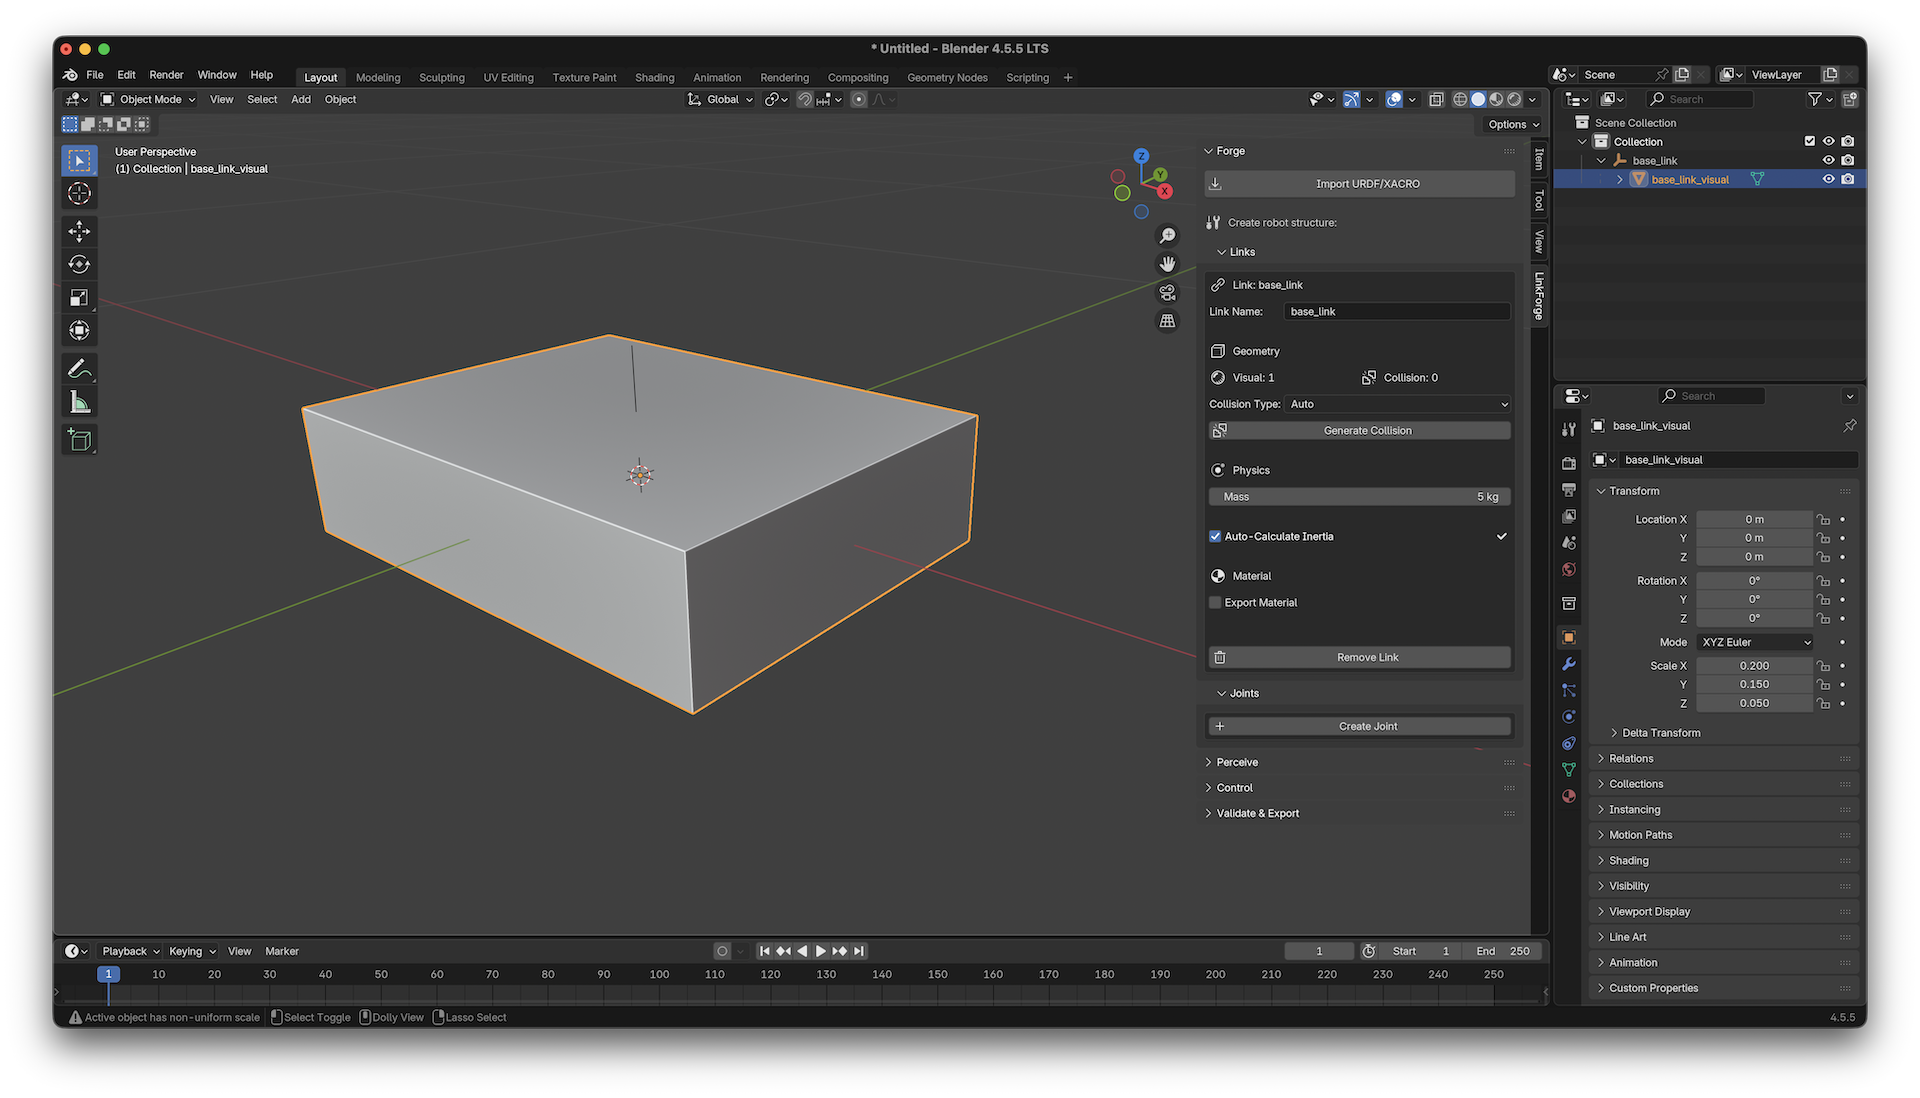
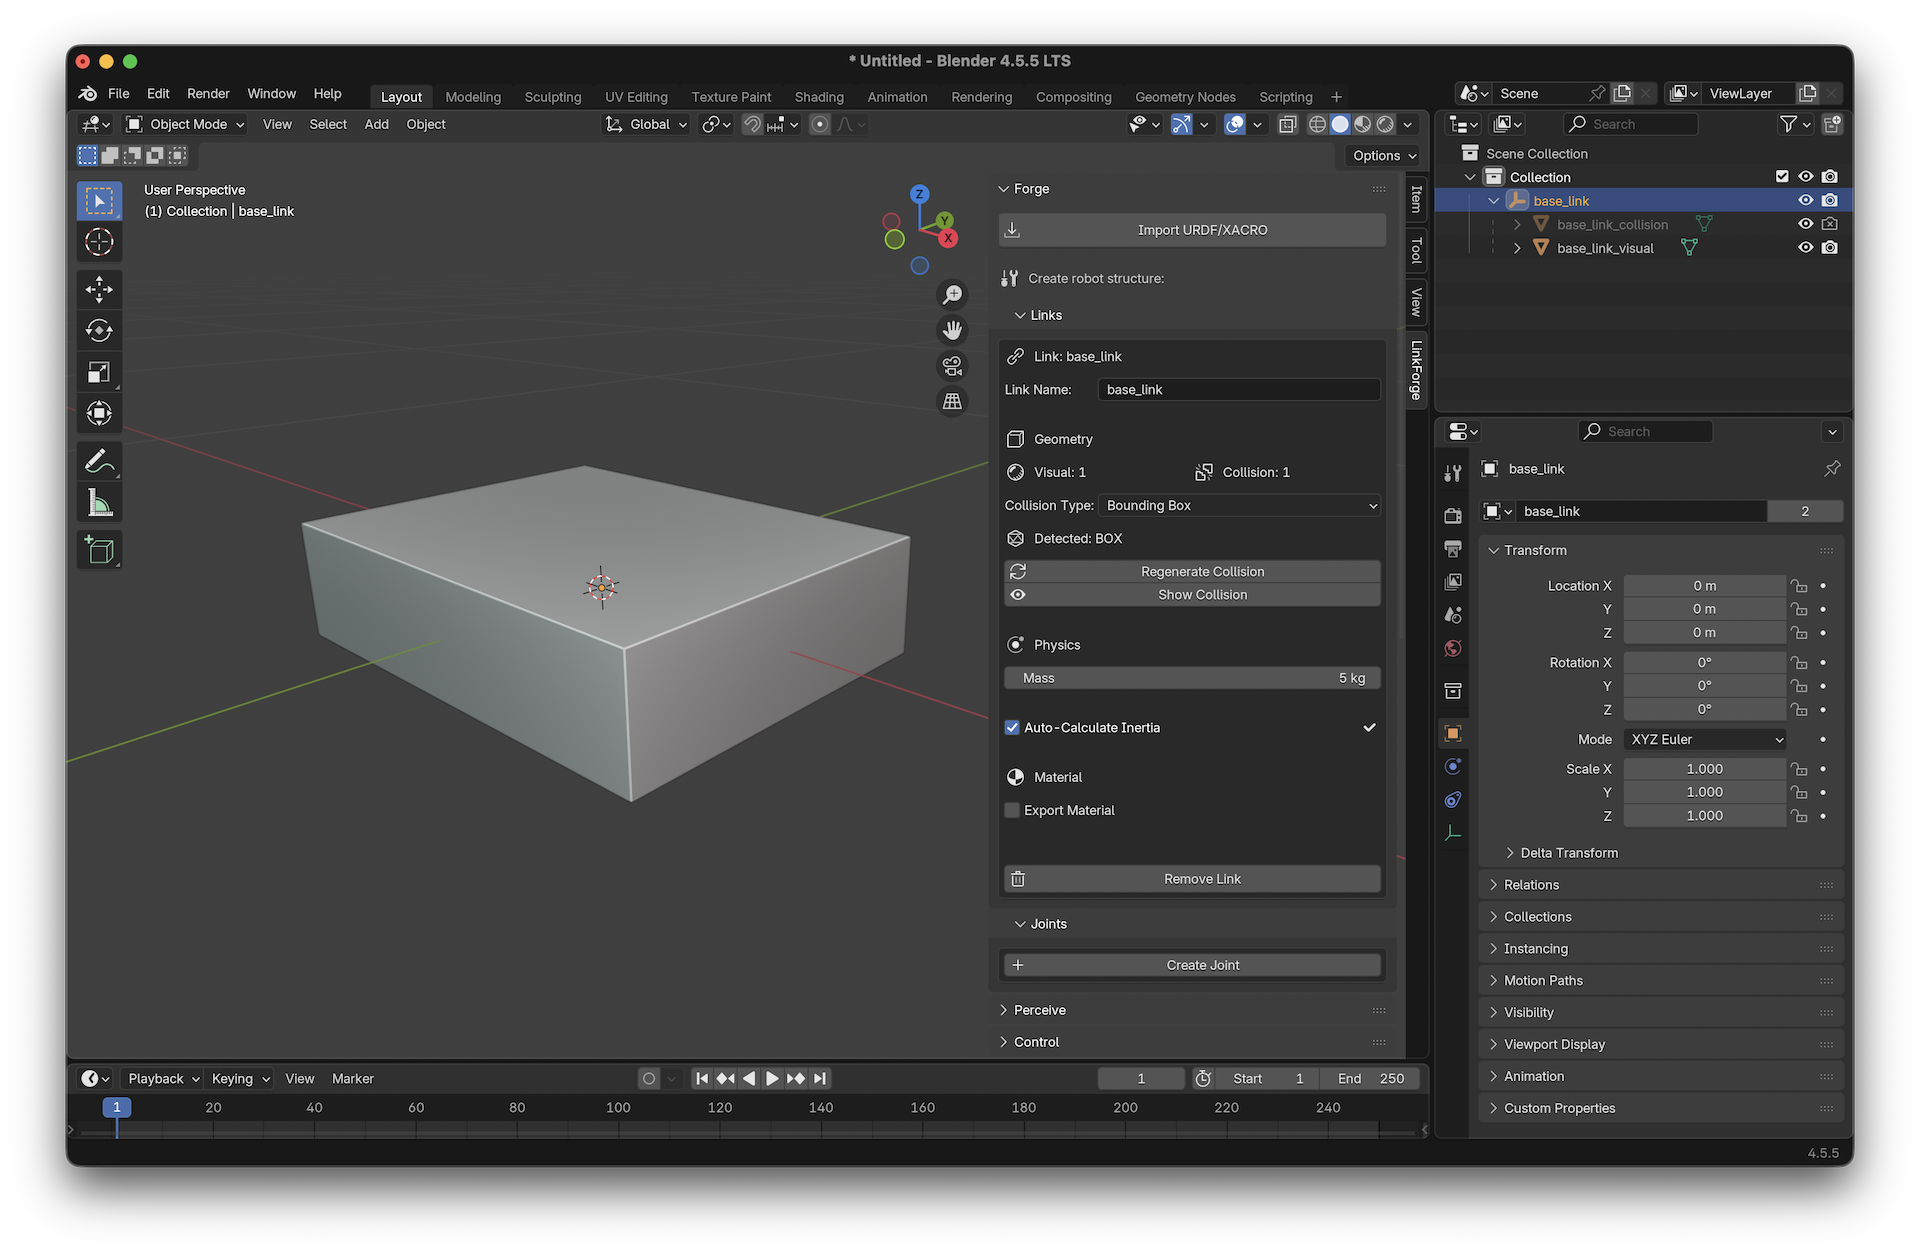
docs: Enhance robot structure and collision geometry documentation, updating the diff drive tutorial with collision generation.

diff --git a/docs/source/tutorials/building_diff_drive.md b/docs/source/tutorials/building_diff_drive.md
@@ -32,6 +32,7 @@ graph TD
    - Name it `base_link`.
    - Set **Mass** to `5.0` kg.
    - Enable **Auto-Calculate Inertia** (LinkForge will automatically generate the inertia tensor for the box).
+   - **Generate Collision**: Click **Generate Collision**. LinkForge will create an optimized bounding box for the cube.
 
 ![Creating the Base Link](../_static/screenshots/diff_drive_01_links.png)
 
@@ -52,12 +53,14 @@ Always keep LinkForge's **Auto-Calculate Inertia** checkbox enabled rather than 
 2. Click **Create Link**.
 3. Name it `left_wheel`.
 4. Set **Mass** to `0.5` kg.
+5. **Generate Collision**: Click **Generate Collision**.
 
 ### Forge the Right Wheel
 1. Select the second cylinder.
 2. Click **Create Link**.
 3. Name it `right_wheel`.
 4. Set **Mass** to `0.5` kg.
+5. **Generate Collision**: Click **Generate Collision**.
 
 ## Step 3: Connect with Joints
 
@@ -84,8 +87,6 @@ Always keep LinkForge's **Auto-Calculate Inertia** checkbox enabled rather than 
    - Select **Type**: `LIDAR` (LinkForge exports this as `gpu_lidar` for modern Gazebo).
    - Set **Update Rate** to `30` Hz.
 
-
-
 ## Step 5: Configure Control
 
 To make our robot actuable in ROS 2 or Gazebo, we need to add transmissions to the joints we want to control (the wheels).
@@ -105,7 +106,7 @@ To make our robot actuable in ROS 2 or Gazebo, we need to add transmissions to t
 ## Step 6: Validate and Export
 
 1. **Validate**: In the LinkForge **Robot** tab, click **Validate Robot**.
-   - LinkForge will check if all links are connected, if physics data is valid, and if transmissions are correctly set up.
+   - LinkForge will check if all links are connected, if physics data is valid, if collision geometry exists, and if transmissions are correctly set up.
 
 ::: {admonition} Warning
 :class: warning
@@ -119,6 +120,165 @@ Exporting without validation may result in a URDF that causes simulators to cras
 ---
 
 ### 🎉 Success!
+
 ![Final Robot](../_static/screenshots/diff_drive_06_final.png)
 
 You now have a production-ready, actuable URDF file. You can now load this file into **Gazebo** or use it with **ROS 2** and the `diff_drive_controller` to drive your robot!
+
+---
+
+### 📄 Sample URDF Output
+
+If you followed the steps correctly, your exported URDF should look similar to the following. You can use this as a reference to verify your names, origins, and transmission configurations.
+
+```{dropdown} Click to view diff_drive_robot.urdf
+```xml
+<robot name="diff_drive_robot">
+  <!-- Links -->
+  <link name="base_link">
+    <visual>
+      <geometry>
+        <box size="0.4 0.3 0.1" />
+      </geometry>
+    </visual>
+    <collision>
+      <geometry>
+        <box size="0.4 0.3 0.1" />
+      </geometry>
+    </collision>
+    <inertial>
+      <mass value="5" />
+      <inertia ixx="0.041667" ixy="0" ixz="0" iyy="0.070833" iyz="0" izz="0.104167" />
+    </inertial>
+  </link>
+  <link name="left_wheel">
+    <visual>
+      <geometry>
+        <cylinder radius="0.1" length="0.05" />
+      </geometry>
+    </visual>
+    <collision>
+      <geometry>
+        <cylinder radius="0.1" length="0.05" />
+      </geometry>
+    </collision>
+    <inertial>
+      <mass value="0.5" />
+      <inertia ixx="0.001354" ixy="0" ixz="0" iyy="0.001354" iyz="0" izz="0.0025" />
+    </inertial>
+  </link>
+  <link name="right_wheel">
+    <visual>
+      <geometry>
+        <cylinder radius="0.1" length="0.05" />
+      </geometry>
+    </visual>
+    <collision>
+      <geometry>
+        <cylinder radius="0.1" length="0.05" />
+      </geometry>
+    </collision>
+    <inertial>
+      <mass value="0.5" />
+      <inertia ixx="0.001354" ixy="0" ixz="0" iyy="0.001354" iyz="0" izz="0.0025" />
+    </inertial>
+  </link>
+  <link name="lidar_link">
+    <visual>
+      <geometry>
+        <cylinder radius="0.03174" length="0.037866" />
+      </geometry>
+    </visual>
+    <inertial>
+      <mass value="1" />
+      <inertia ixx="0.000371" ixy="0" ixz="0" iyy="0.000371" iyz="0" izz="0.000504" />
+    </inertial>
+  </link>
+  <!-- Joints -->
+  <joint name="left_wheel_joint" type="continuous">
+    <origin xyz="0 0.175 0" rpy="1.570796 0 0" />
+    <parent link="base_link" />
+    <child link="left_wheel" />
+    <axis xyz="0 1 0" />
+    <limit effort="10" velocity="1" />
+  </joint>
+  <joint name="right_wheel_joint" type="continuous">
+    <origin xyz="0 -0.175 0" rpy="1.570796 0 0" />
+    <parent link="base_link" />
+    <child link="right_wheel" />
+    <axis xyz="0 1 0" />
+    <limit effort="10" velocity="1" />
+  </joint>
+  <joint name="lidar_link_joint" type="fixed">
+    <origin xyz="0 0 0.064282" rpy="0 0 0" />
+    <parent link="base_link" />
+    <child link="lidar_link" />
+  </joint>
+  <!-- Transmissions -->
+  <transmission name="right_wheel_transmission">
+    <type>transmission_interface/SimpleTransmission</type>
+    <joint name="right_wheel_joint">
+      <hardwareInterface>velocity</hardwareInterface>
+    </joint>
+    <actuator name="right_wheel_joint_motor">
+      <hardwareInterface>velocity</hardwareInterface>
+      <mechanicalReduction>1</mechanicalReduction>
+    </actuator>
+  </transmission>
+  <transmission name="left_wheel_transmission">
+    <type>transmission_interface/SimpleTransmission</type>
+    <joint name="left_wheel_joint">
+      <hardwareInterface>velocity</hardwareInterface>
+    </joint>
+    <actuator name="left_wheel_joint_motor">
+      <hardwareInterface>velocity</hardwareInterface>
+      <mechanicalReduction>1</mechanicalReduction>
+    </actuator>
+  </transmission>
+  <!-- ROS2 Control -->
+  <ros2_control name="GazeboSimSystem" type="system">
+    <hardware>
+      <plugin>gz_ros2_control/GazeboSimSystem</plugin>
+    </hardware>
+    <joint name="right_wheel_joint">
+      <command_interface name="velocity" />
+      <state_interface name="position" />
+      <state_interface name="velocity" />
+    </joint>
+    <joint name="left_wheel_joint">
+      <command_interface name="velocity" />
+      <state_interface name="position" />
+      <state_interface name="velocity" />
+    </joint>
+  </ros2_control>
+  <gazebo>
+    <plugin filename="libgz_ros2_control-system.so" name="gz_ros2_control::GazeboSimROS2ControlPlugin">
+      <parameters>$(find robot_description)/config/controllers.yaml</parameters>
+    </plugin>
+  </gazebo>
+  <!-- Sensors -->
+  <gazebo reference="lidar_link">
+    <sensor name="lidar_link_sensor" type="gpu_lidar">
+      <always_on>true</always_on>
+      <update_rate>30</update_rate>
+      <visualize>false</visualize>
+      <ray>
+        <scan>
+          <horizontal>
+            <samples>640</samples>
+            <resolution>1</resolution>
+            <min_angle>-1.570796</min_angle>
+            <max_angle>1.570796</max_angle>
+          </horizontal>
+        </scan>
+        <range>
+          <min>0.1</min>
+          <max>10</max>
+          <resolution>0.01</resolution>
+        </range>
+      </ray>
+    </sensor>
+  </gazebo>
+</robot>
+```
+```

diff --git a/docs/source/explanation/data_model.md b/docs/source/explanation/data_model.md
@@ -1,16 +1,33 @@
 # Explanation: The LinkForge Data Model
 
-To understand how LinkForge converts a Blender scene into a URDF, it's important to understand the underlying data model.
+To understand how LinkForge converts a Blender scene into a URDF, it's important to understand the philosophy behind its data model. 
 
-## Why not just use Blender groups?
-Standard Blender parent-child relationships don't store enough information for robotics simulation (like joint types, axis orientations, or mass properties).
+## The Semantic Bridge
 
-## The Three Layers
-LinkForge maintains a parallel data structure that maps Blender objects to URDF elements:
+LinkForge acts as a **semantic bridge**. In Blender, you are manipulating geometry and lights; in a URDF, you are defining a kinematic tree of physical bodies and constraints.
 
-1. **Blender Object Layer**: The visual mesh and collision geometry you see in the viewport.
-2. **LinkForge Property Layer**: Hidden custom properties attached to Blender objects that store mass, inertia, and joint settings.
-3. **Core URDF Model**: An immutable Python object created only during validation/export that ensures the robot tree is mathematically sound.
+LinkForge decouples these two worlds by using **Empty Objects** as the primary "anchors" for robot components.
 
-## Coordinate Frames
-Blender uses a **Right-Handed Z-Up** coordinate system. LinkForge ensures that when you export to URDF (which is also Right-Handed), all offsets and rotations are correctly converted so your robot "stands up" correctly in Gazebo.
+### 1. Why use Empties for Links and Joints?
+Standard Blender meshes are designed for rendering. They have scale, rotation, and potentially complex modifiers. If we attached URDF data directly to a mesh, changing the visual representation (e.g., swapping a high-poly wheel for a low-poly wheel) would risk losing the physics data.
+
+By using an **Empty** as the "Link Frame":
+- **Independence**: You can swap, scale, or move the visual meshes without affecting the Joint origin or the Inertia frame.
+- **Precision**: Empties have no geometry by themselves, ensuring they represent a mathematically pure coordinate frame.
+- **Visual Clarity**: Joints are represented by arrows, making it easy to see the axis of rotation at a glance.
+
+### 2. Composition over Parenting
+In a standard Blender hierarchy, you might parent a wheel mesh to a car body mesh. In LinkForge, we use a more structured approach:
+- **Link (Empty)**: The root container for a physical body.
+- **Visual/Collision (Meshes)**: Children of the Link Empty.
+- **Joint (Empty)**: A floating coordinate frame that defines how one Link connects to another.
+
+This structure allows for **non-destructive editing**. You can hide all collision meshes to work on aesthetics, or hide visuals to inspect the physics layout, all without breaking the kinematic tree.
+
+### 3. Automatic Physics
+LinkForge bridges the gap between Blender's visual bounding boxes and URDF's inertia tensors. Because it understands the Link Frame separately from the meshes, it can automatically sum up the masses of all visual children and calculate a consistent inertia tensor, even for complex arbitrary shapes.
+
+---
+
+> [!TIP]
+> For a technical breakdown of naming conventions and object types, see the [Robot Structure Reference](../reference/robot_structure.md).

diff --git a/docs/source/reference/robot_structure.md b/docs/source/reference/robot_structure.md
@@ -1,0 +1,56 @@
+# Reference: Robot Structure & Mapping
+
+This document provides a technical specification of how LinkForge maps Blender objects to URDF elements.
+
+## Object Mapping
+
+| URDF Element | Blender Object Type | Display Type | Notes |
+| :--- | :--- | :--- | :--- |
+| **Link** | `Empty` | Plain Axes | The coordinate frame of the link. |
+| **Visual** | `Mesh` | Textured/Solid | Must be a child of a Link Empty. |
+| **Collision** | `Mesh` | Wireframe | Must be a child of a Link Empty. |
+| **Joint** | `Empty` | Arrows | Colored axes (RGB for XYZ). |
+| **Sensor** | `Empty` | Plain Axes | Must be a child of a Link Empty. |
+
+## Naming Conventions
+
+LinkForge uses specific suffixes to identify the role of mesh objects within a link.
+
+| Suffix | Role | Export Behavior |
+| :--- | :--- | :--- |
+| `_visual` | **Visual Geometry** | Exported to the `<visual>` tag. |
+| `_collision` | **Collision Geometry** | Exported to the `<collision>` tag. |
+
+### Sanitization Rules
+During export, all object names are sanitized to remain compliant with the URDF specification:
+1.  **Spaces** are replaced with underscores `_`.
+2.  **Special characters** (except underscores and hyphens) are removed.
+3.  **Leading numbers** are prefixed with `_` or `link_`.
+
+## Hierarchy Rules
+
+### 1. Link Container
+A Link is not just a mesh; it is a container.
+- All visual and collision meshes **must** be direct children of the Link Empty.
+- A Link Empty **must** have its `is_robot_link` property set to `True`.
+
+### 2. Joint Connectivity
+Joints in LinkForge operate differently than standard Blender parent-child relationships:
+- A Joint Empty is **not** parented to its child link in Blender.
+- Instead, the Joint Empty stores recursive references to the **Parent Link** and **Child Link** in its properties.
+- This allows LinkForge to build a kinematic tree that stays 100% compliant with URDF, regardless of how objects are organized in the Blender Outliner.
+
+### 3. Coordinate Systems
+LinkForge handles the conversion between Blender's **Z-Up** system and URDF's **Right-Handed** conventions.
+- **Joint Axes**: Selecting "X", "Y", or "Z" in the Joint panel automatically assigns the correct vector (e.g., `1 0 0`) based on the Joint Empty's orientation.
+- **Origins**: The `location` and `rotation` of the Link Empty in Blender are converted to the `<origin>` tag of its parent Joint.
+
+## Property Storage
+LinkForge stores all metadata as **Custom Properties** on the Blender objects. These can be inspected in the "Custom Properties" panel of the Object Data tab, though it is recommended to use the LinkForge Sidebar for editing.
+
+| Component | Property Prefix |
+| :--- | :--- |
+| **Link** | `linkforge_link.*` |
+| **Joint** | `linkforge_joint.*` |
+| **Transmission** | `linkforge_transmission.*` |
+| **Sensor** | `linkforge_sensor.*` |

diff --git a/docs/source/how_to/collision_geometry.md b/docs/source/how_to/collision_geometry.md
@@ -1,0 +1,32 @@
+# How-to: Manage Collision Geometry
+
+Collision geometry defines the physical shape of your robot used by physics engines (like ODE or Bullet) to calculate contacts, friction, and collisions.
+
+## 1. Why Collision Matters
+While your **Visual** meshes can be high-poly and complex for aesthetics, **Collision** meshes should be as simple as possible (primitives or convex hulls) to ensure simulation performance and stability.
+
+## 2. Generating Collisions
+LinkForge makes it easy to generate optimized collision geometry from your visuals:
+
+1. Select a **Link** (the Empty object) or any of its children.
+2. Go to the **Link** tab in the LinkForge panel.
+3. Click **Generate Collision**.
+
+### Collision Types
+In the settings below the button, you can choose the generation strategy:
+- **Auto-Detect**: LinkForge analyzes the visual mesh. If it resembles a cube, sphere, or cylinder, it creates a corresponding primitive. Otherwise, it generates a **Convex Hull**.
+- **Box/Sphere/Cylinder**: Force LinkForge to use a specific primitive shape based on the visual's bounding box.
+- **Convex Hull**: Shrink-wraps the visual mesh. Best for complex, non-primitive parts.
+
+## 3. Compound Collisions
+If a Link has multiple visual meshes (e.g., a chassis made of several separate parts), LinkForge will automatically merge them into a **single compound collision hull** when you click Generate Collision. This follows industry best practices for simulation stability.
+
+## 4. Live Preview & Quality
+- **Collision Quality**: Use the slider to decimate the generated convex hull. Lower quality means fewer vertices and faster simulation.
+- **Toggling Visibility**: Collisions are hidden by default to keep the viewport clean. Click the **Eye icon** next to "Generate Collision" or use the **Toggle Collision Visibility** button in the Robot tab to inspect your collision meshes.
+
+## 5. Manual Collisions
+If you want to provide your own hand-optimized collision mesh:
+1. Add a mesh child to your Link.
+2. Ensure the name ends with the `_collision` suffix (e.g., `chassis_collision`).
+3. LinkForge will detect this and use it instead of generating one.

diff --git a/docs/source/how_to/index.md b/docs/source/how_to/index.md
@@ -8,6 +8,7 @@ How-to guides are **task-oriented**. They provide specific "recipes" to help you
 best_practices
 add_sensors
 transmissions
+collision_geometry
 joint_viz
 troubleshooting
 ```

diff --git a/docs/source/reference/index.md b/docs/source/reference/index.md
@@ -6,6 +6,7 @@ Reference is **information-oriented**. It provides technical descriptions, speci
 :maxdepth: 2
 
 api/index
+robot_structure
 glossary
 ```
 
